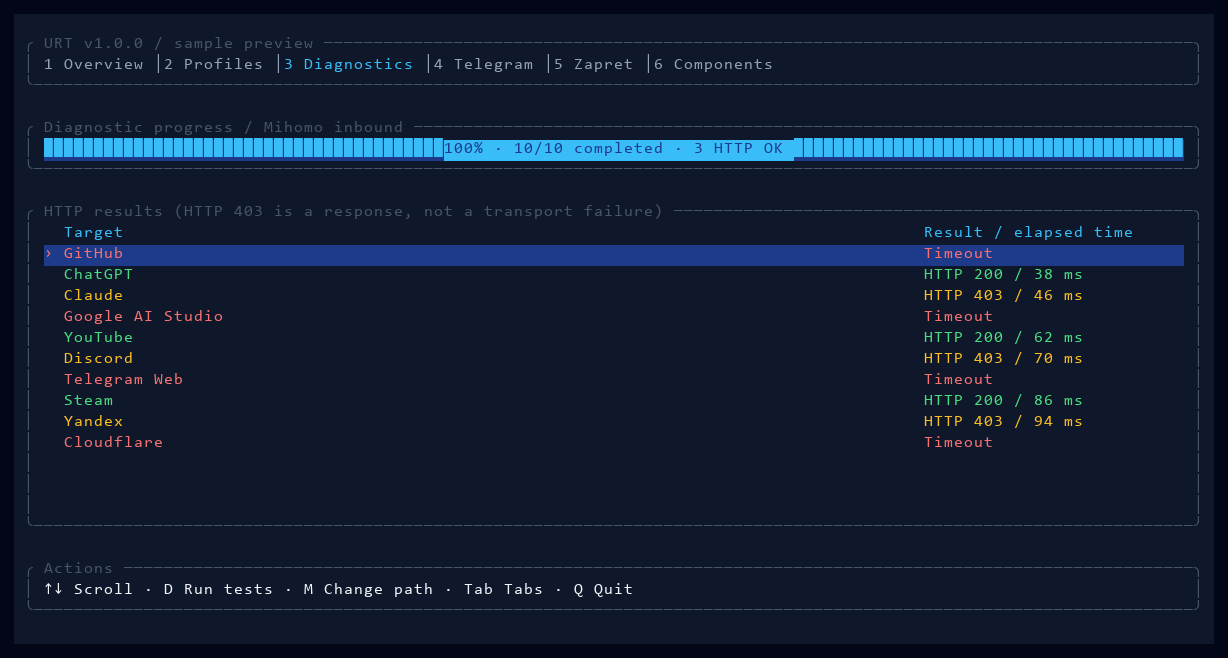
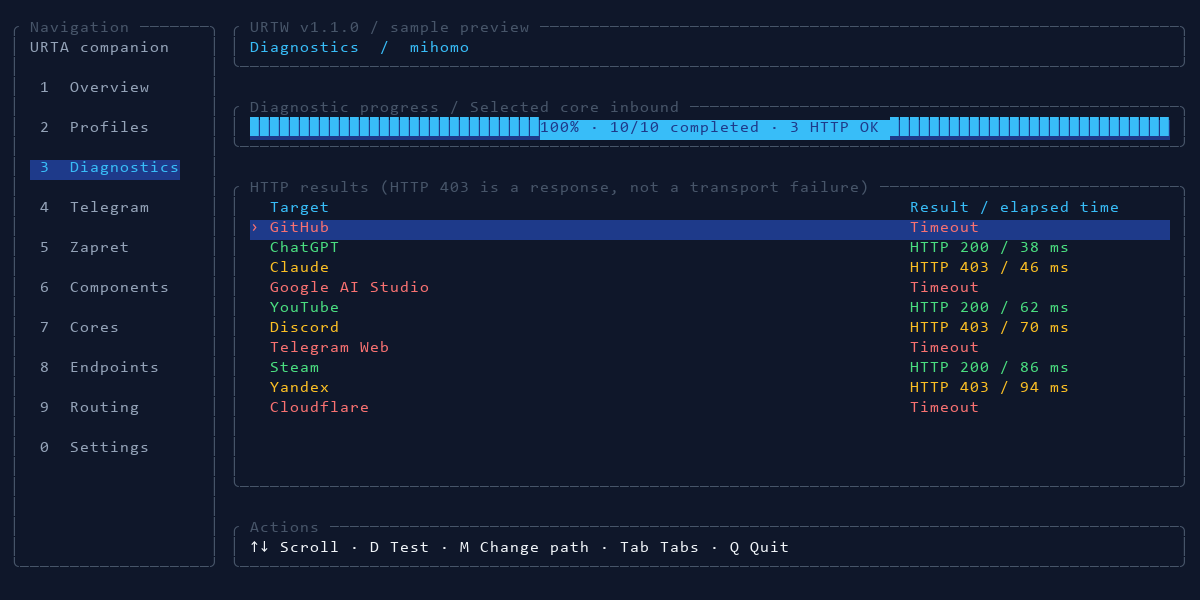
fix: preserve Unicode requests and existing routing integrations

diff --git a/src/ui.rs b/src/ui.rs
@@ -130,7 +130,7 @@ pub fn render(f: &mut Frame, app: &App) {
     .spacing(u16::from(wide))
     .split(outer);
     let rows = Layout::vertical([
-        Constraint::Length(if wide { 3 } else { 5 }),
+        Constraint::Length(if wide { 3 } else { 4 }),
         Constraint::Min(6),
         Constraint::Length(3),
     ])
@@ -927,8 +927,21 @@ fn footer(f: &mut Frame, app: &App, area: Rect) {
         Tab::Settings => "E Core options · H/K Folder · O Open · B Backup · R Restore · Q",
     };
 
+    let compact = match app.tab {
+        Tab::Overview => "F/N File · S/X Core · P Proxy · D Test · Q",
+        Tab::Profiles => "Enter Select · F/N File · G New · V Check · C Copy · Q",
+        Tab::Diagnostics => "D Test · M Path · ↑↓ Scroll · Q",
+        Tab::Telegram => "S/X Run · L Link · G TG · E Port · O Edit · I · Q",
+        Tab::Zapret => "Enter Manager · I Install · Q",
+        Tab::Components => "↑↓ Select · Enter/I Install · Q",
+        Tab::Cores => "Enter Select · E Options · I Install · A/B Custom · Q",
+        Tab::Endpoints => "Enter Select · A Link · W WG · E Edit · Delete · Q",
+        Tab::Routing => "A Standard · E Rule · B Browser · U/J Move · G New · Q",
+        Tab::Settings => "E Options · H/K Folder · B Backup · R Restore · Q",
+    };
     f.render_widget(
-        Paragraph::new(fit(keys, width)).block(panel(" Actions ")),
+        Paragraph::new(fit(if area.width < 90 { compact } else { keys }, width))
+            .block(panel(" Actions ")),
         area,
     );
 }

diff --git a/src/system.rs b/src/system.rs
@@ -434,4 +434,40 @@ mod tests {
         .unwrap();
         assert!(same_path(&p.root, Path::new(r"C:\URTW-preview\data")));
     }
+
+    #[tokio::test]
+    async fn real_backend_stdin_preserves_unicode_names_and_private_paths() {
+        let base = std::env::temp_dir();
+        let name = format!(
+            "URTW-stdin-{}-{}",
+            std::process::id(),
+            std::time::SystemTime::now()
+                .duration_since(std::time::UNIX_EPOCH)
+                .unwrap()
+                .as_nanos()
+        );
+        let root = base.join(name);
+        let paths =
+            Paths::discover(Some(root.clone()), Some(env!("CARGO_MANIFEST_DIR").into())).unwrap();
+        let (tx, _rx) = mpsc::channel(32);
+        let action = Action::Workspace {
+            request: serde_json::json!({"action":"AddStandard","name":"Тест Unicode"}),
+            label: "Test Unicode",
+        };
+        let result = run_action(&paths, &action, &tx).await;
+        let bytes = fs::read(root.join("workspace.json"));
+        assert_eq!(root.parent(), Some(base.as_path()));
+        if root.exists() {
+            fs::remove_dir_all(&root).unwrap();
+        }
+        result.unwrap();
+        let value: serde_json::Value = serde_json::from_slice(&bytes.unwrap()).unwrap();
+        assert!(
+            value["standards"]
+                .as_array()
+                .unwrap()
+                .iter()
+                .any(|s| s["name"] == "Тест Unicode")
+        );
+    }
 }

diff --git a/scripts/scan-secrets.py b/scripts/scan-secrets.py
@@ -14,7 +14,7 @@ PATTERNS = {
     "GitHub credential": re.compile(r"(?:gh[pousr]_[A-Za-z0-9]{30,}|github_pat_[A-Za-z0-9_]{40,})"),
     "private user path": re.compile(r"(?i)[a-z]:[\\/]Users[\\/](?!YOUR_USER(?:[\\/]|\b))[^\\/\s\"']+[\\/]"),
 }
-FORBIDDEN_NAMES = {"settings.json", "config.json", "installed.json", "installed-paths.json", "workspace.json", "urt-location.json", "telegram-private.json", "cache.db", "routing.log", "proxy-backup.json"}
+FORBIDDEN_NAMES = {"settings.json", "config.json", "installed.json", "installed-paths.json", "installed-data.json", "workspace.json", "urt-location.json", "telegram-private.json", "cache.db", "routing.log", "proxy-backup.json"}
 
 def check(name: str, data: bytes) -> list[str]:
     errors = []

diff --git a/src/main.rs b/src/main.rs
@@ -309,6 +309,9 @@ fn key(app: &mut App, key: KeyCode) -> bool {
                 app.core_request("Stop", "Stopping owned core")
             }
         }
+        KeyCode::Char('y' | 'Y') if app.tab == Tab::Overview => {
+            app.core_request("OpenLegacy", "Opening original legacy manager")
+        }
         KeyCode::Char('p' | 'P') if app.tab == Tab::Overview => {
             if app.snapshot.proxy_enabled {
                 app.action(Action::DisableProxy)

diff --git a/README.md b/README.md
@@ -47,7 +47,7 @@ Delete clears a field, Enter saves, Esc cancels. Credentials are masked.
 
 | Screen | Actions |
 |---|---|
-| Overview | F/N file, S/X selected core, P explicit Windows Proxy, D diagnostics |
+| Overview | F/N file, S/X selected core, P explicit Windows Proxy, D diagnostics, Y installed legacy tools |
 | Profiles | Enter select, V validate, C private editable copy, R rename, Delete remove entry, G generate, O open, L log |
 | Diagnostics | D run, M local inbound/system path; HTTP denials count as completed responses |
 | Telegram | I install, S/X start/stop, L copy private link, G connect, E port, O upstream settings |
@@ -91,7 +91,7 @@ A matching PAC domain does not silently fall back to DIRECT on proxy failure.
 | DNS DoT | Yes | Yes | Native profile only |
 
 Per-core ports, DNS, family strategy, IPv6, log level and supported TUN settings
-are saved independently. Native validation is syntax validation; VPN reachability
+are saved independently. With IPv6 off, generated DNS uses IPv4-only. Family preference is vendor-specific: sing-box supports all four choices; Mihomo uses its native default or IPv4-only, Xray uses both families or IPv4/IPv6-only. Unsupported choices are rejected. Native validation is syntax validation; VPN reachability
 needs diagnostics through the actual endpoint. System-path diagnostics disable
 HTTP proxy settings in the test client, but can still traverse a running system TUN.
 

diff --git a/docs/audit/compatibility-v1.1.0.md b/docs/audit/compatibility-v1.1.0.md
@@ -15,7 +15,7 @@ rules as a migration step. Keep root legacy scripts; deploy app assets separatel
 | Config imports and multiple profiles | Per-core library, pending validation, native picker/path entry, editable copies |
 | Diagnostics / progress | Actual local inbound or system path, HTTP responses separated from transport failure |
 | Original Boot / autostart task | Original scripts/task unchanged; explicit separate URTW core autostart available |
-| StartAll/StopAll, reload, list update, IDE sync, repair/cleanup | Original root commands retained in the deployed legacy script; new UI uses scoped individual controls |
+| StartAll/StopAll, reload, list update, IDE sync, repair/cleanup | Original root commands retained in the deployed legacy script, accessible via Y on Overview; new UI uses scoped individual controls |
 | Updates and rollback | Public app files independent of private configs; private backup before deployment; immutable signed releases |
 
 There is no promise that every legacy automation button has a new UI equivalent.

diff --git a/docs/specs/2026-10-03-universal-workspace.md b/docs/specs/2026-10-03-universal-workspace.md
@@ -44,3 +44,7 @@ selection, visible attribution and a real UI/process integration test. Windows
 separator comparison and publication verification also need regression coverage.
 The tagged v1.0.0 preflight is not a published stable release. The expanded release
 is v1.1.0; existing tags are retained.
+
+Private JSON/YAML and stdin requests use explicit UTF-8 on Windows PowerShell 5.1.
+Non-ASCII profile paths and endpoint/standard names must survive save/reload.
+Test the real structured backend request pipe and real local proxy forwarding.
